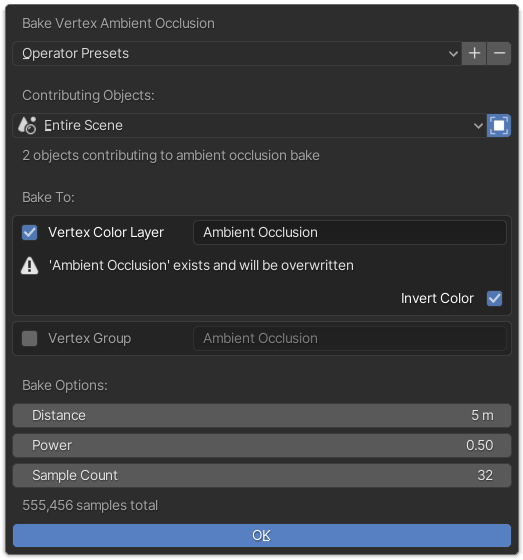
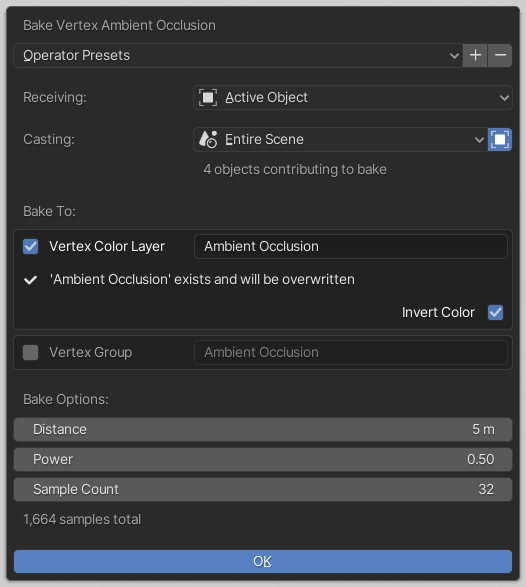
Update operator settings screenshot

diff --git a/ISSUES.md b/ISSUES.md
@@ -2,11 +2,11 @@
 # Issues blocking first release on Blender Market
 
 ## P1
-* Take new screenshots of settings dialog (MUST BE COMPLETE BEFORE RELEASE)
-* Download some models and bake AO on them for the gallery (At least one or two should be done by release.)
-* Create a slide for performance, and how vertex colors can be faster and look better than baked AO
-* Add emphasis about how vertex color AO is much faster when dealing with lots of objects than AO
+* [x] Take new screenshots of settings dialog (MUST BE COMPLETE BEFORE RELEASE)
+* [ ] Create a slide for performance, and how vertex colors can be faster and look better than baked AO
+* [ ] Add emphasis about how vertex color AO is much faster when dealing with lots of objects than AO
+* [ ] Download some models and bake AO on them for the gallery (At least one or two should be done by release.)
 
 ## After release
-* Backport documentation from Blender Market to GitHub (can be done after release)
-* Take screenshots demonstrating pitfalls of AO
+* [ ] Backport documentation from Blender Market to GitHub (can be done after release)
+* [ ] Take screenshots demonstrating pitfalls of vertex-based AO
